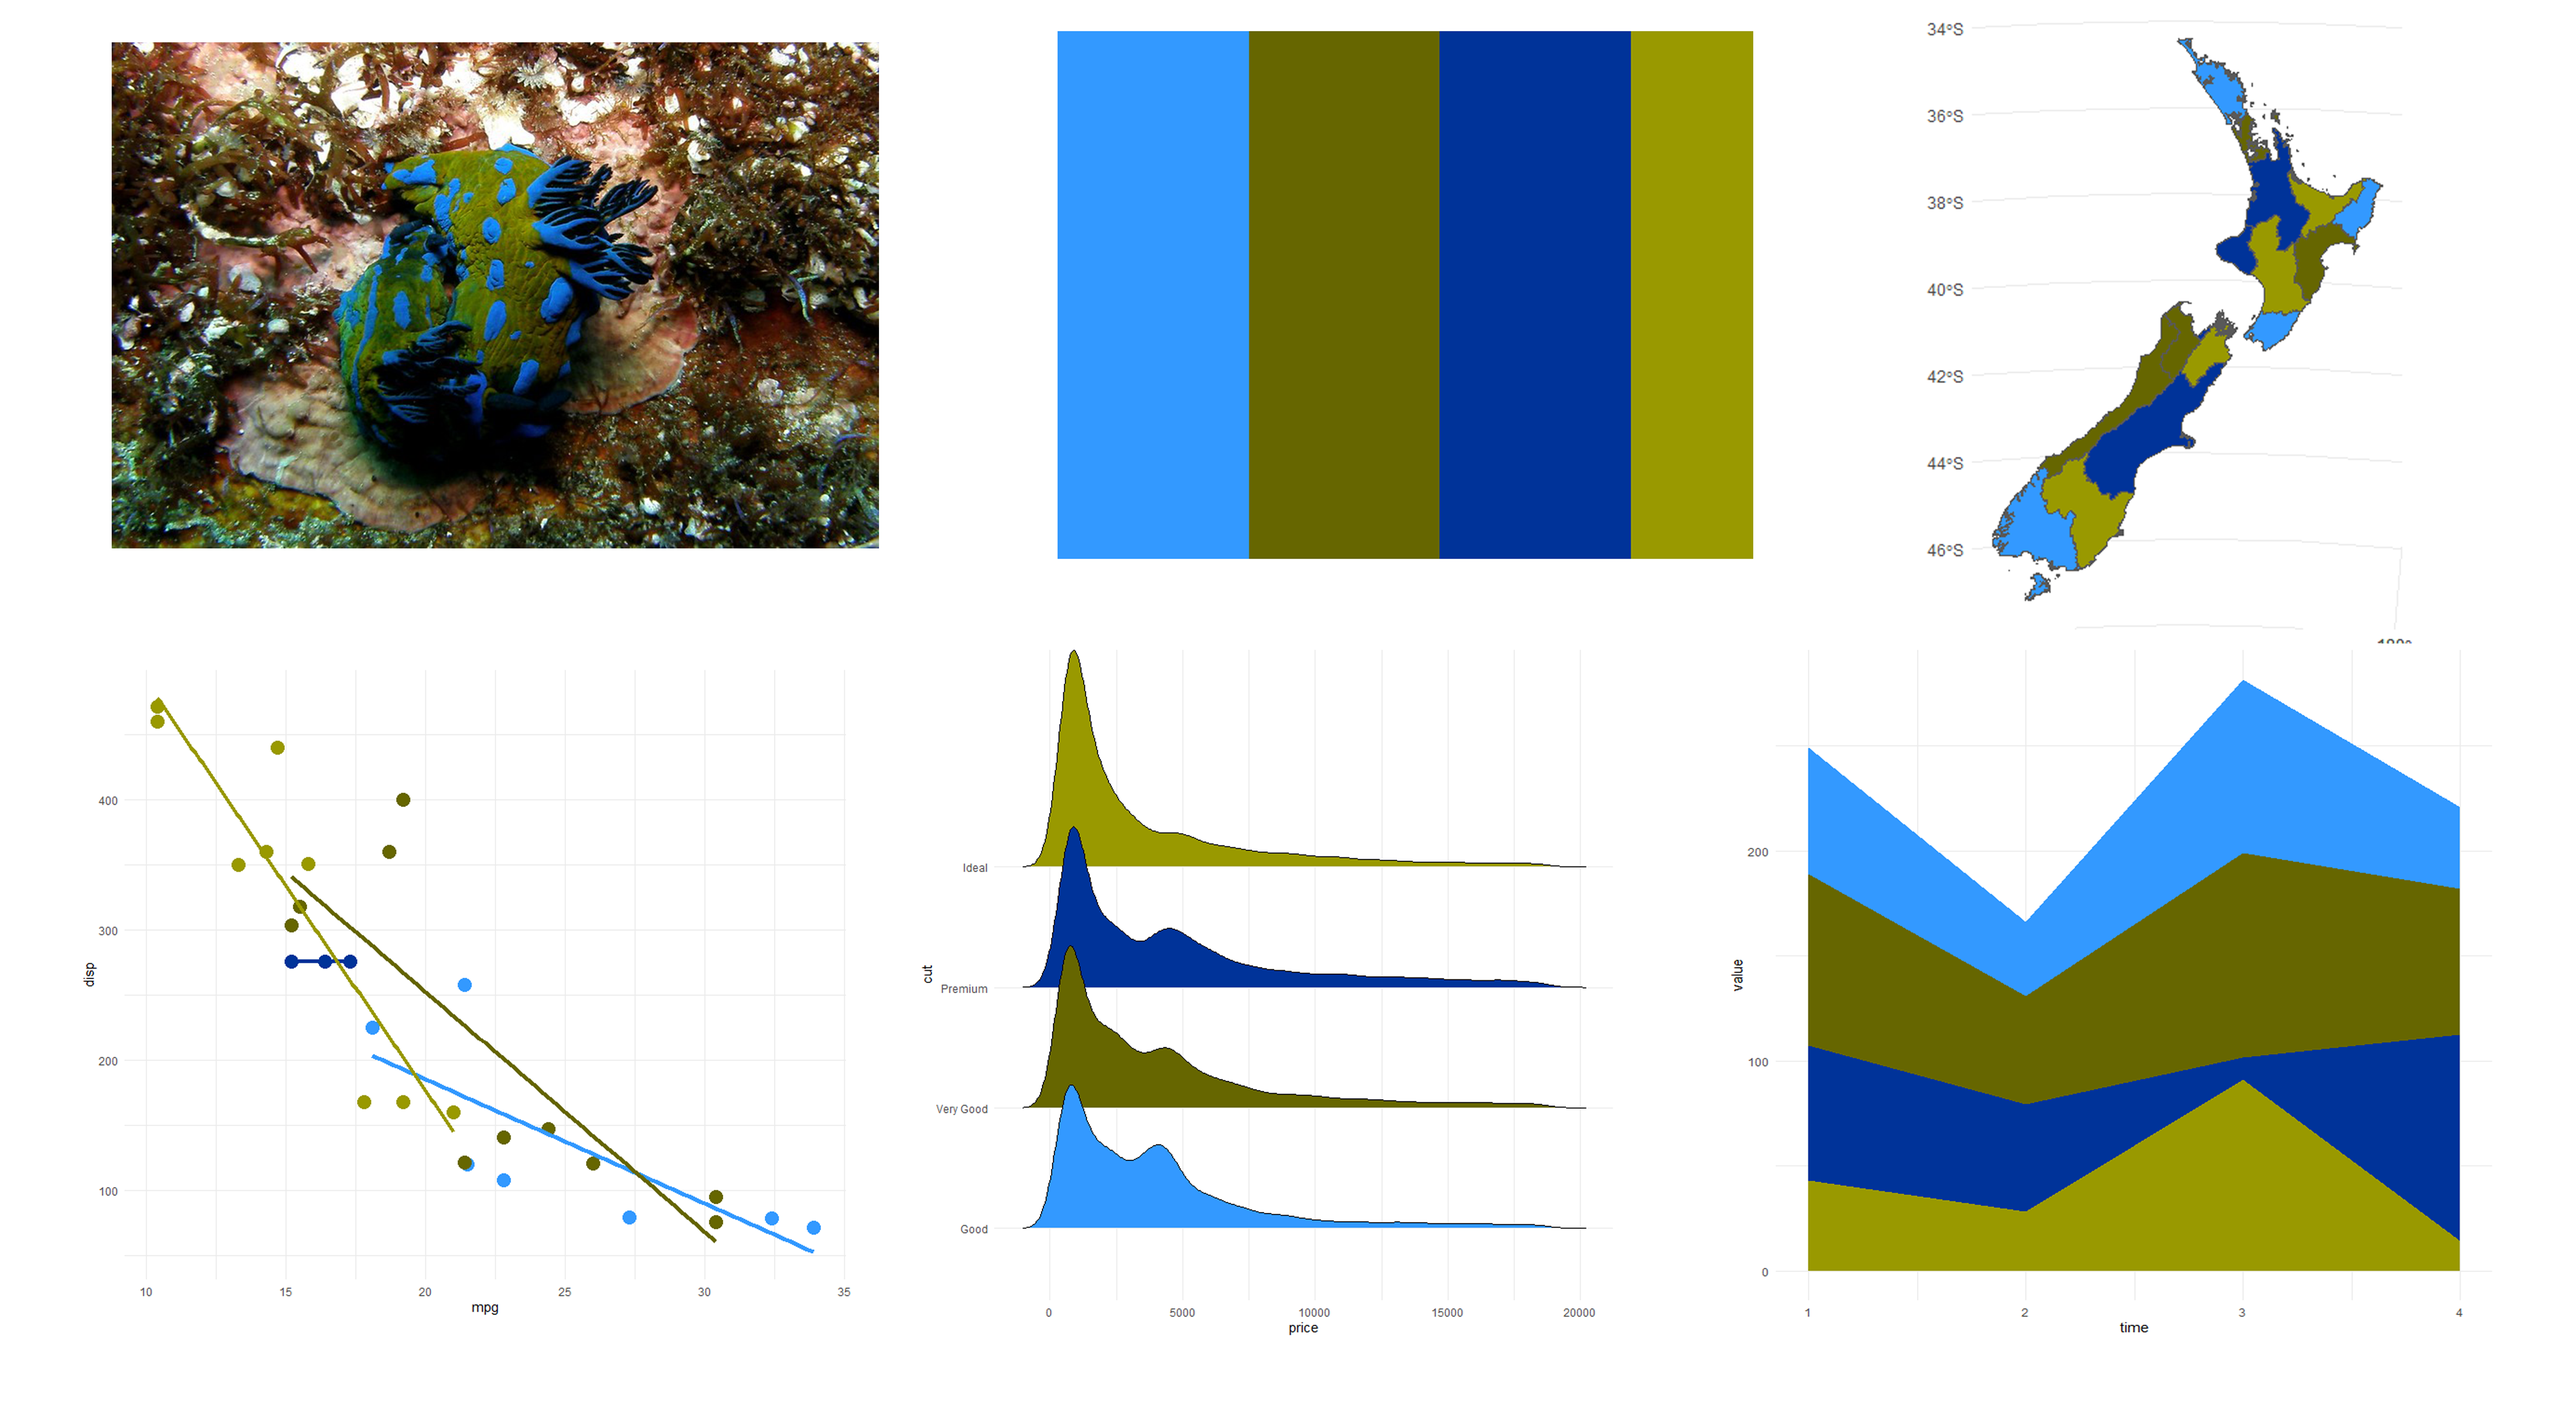
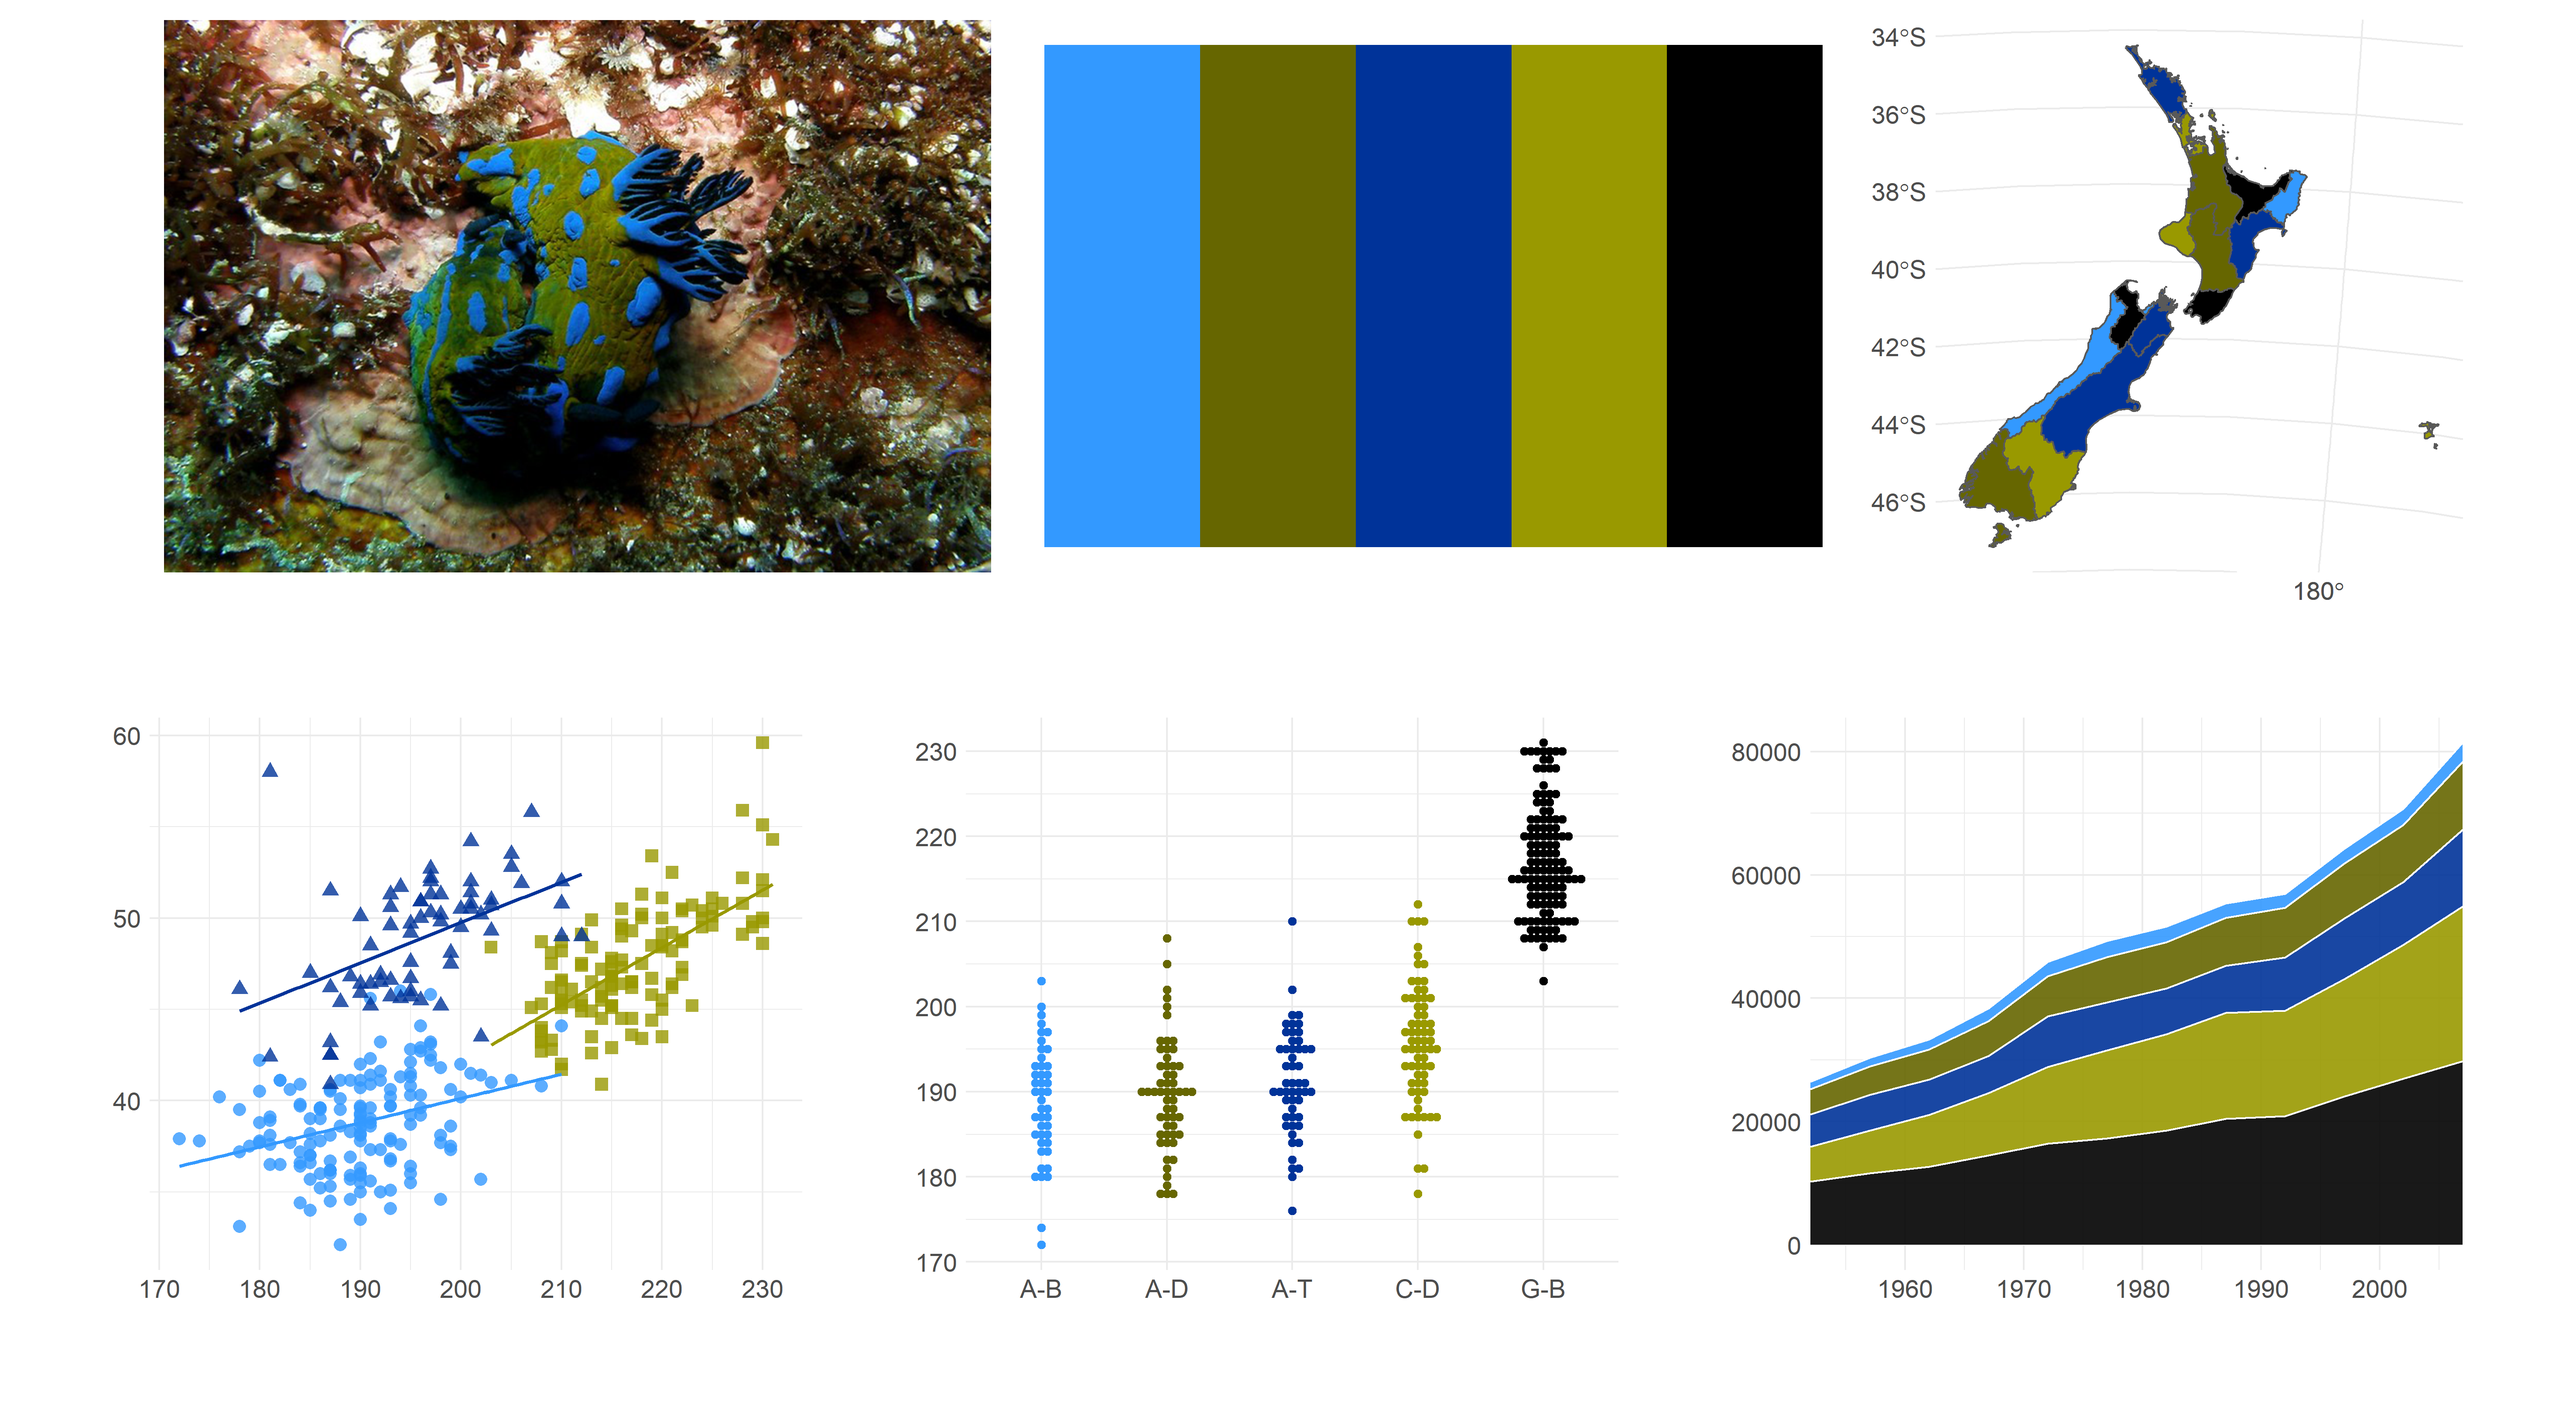
updated gloomy nudibranch figures to be consistent

diff --git a/README.md b/README.md
@@ -171,7 +171,7 @@ c("#5FA1F7", "#83A552", "#3D4928", "#9B1F1A", "#B19F8E", "#4E0B0C")
 
 ### *Tambja kushimotoensis* - Gloomy nudibranch
 ```r
-c("#3399ff", "#666600", "#003399", "#999900")
+c("#3399ff", "#666600", "#003399", "#999900", "#000000")
 ```
 <img src="man/figures/Gloomy_Nudi.png"/>
 <p style="font-size: 0.9rem;font-style: italic;">Photo:<a href="https://www.flickr.com/photos/anna-barnett/4329688360/">"Tambja nudibranch pair"</a><span> by <a href="https://www.flickr.com/photos/anna-barnett/">Anna Barnett</a></span> is licensed under <a href="https://creativecommons.org/licenses/by/2.0/" style="margin-right: 5px;">CC BY 2.0</a></p>
